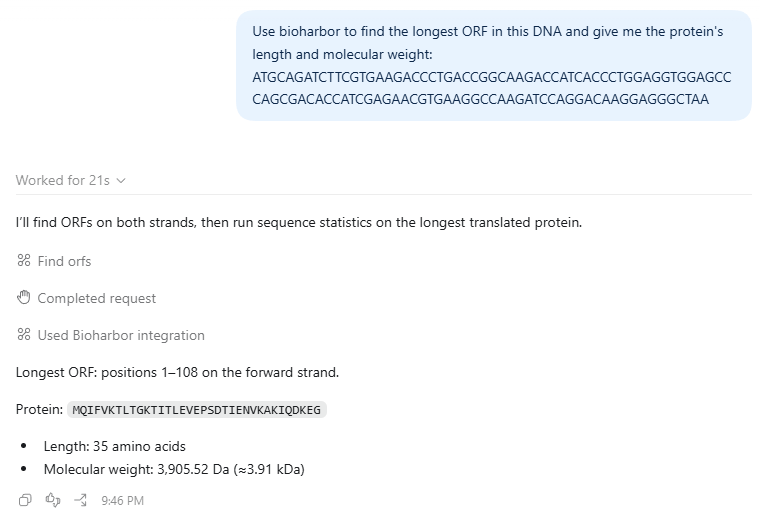
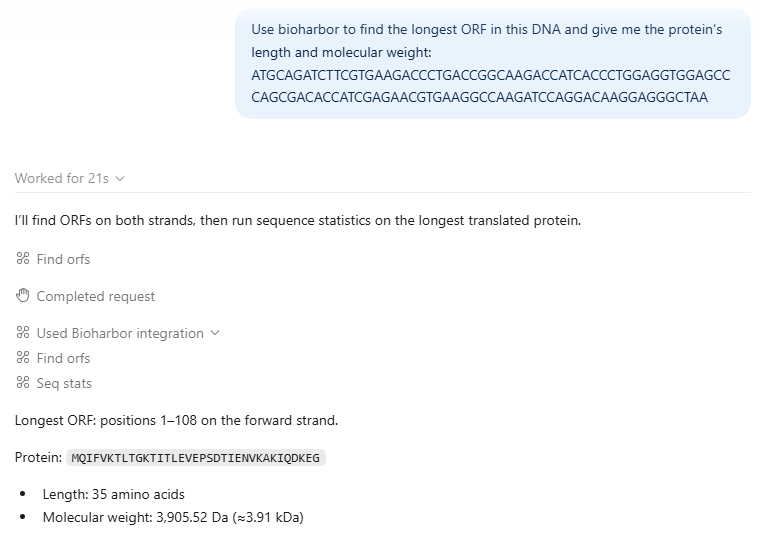
Show both BioHarbor tool calls in the Codex screenshot
The fully expanded view lists find_orfs and seq_stats, so the captions can name both tools.

diff --git a/docs/connect-clients.md b/docs/connect-clients.md
@@ -91,10 +91,10 @@ Then ask the agent, for example:
 Clear errors on a machine without MMseqs2 or a GPU are expected: they show the agent
 gets actionable messages instead of a hang.
 
-A multi-step request works too. Here Codex plans the steps, calls BioHarbor's tools and
-reports the ORF and the protein's length and molecular weight:
+A multi-step request works too. Here Codex plans the steps, chains BioHarbor's
+`find_orfs` and `seq_stats`, and reports the ORF and the protein's length and weight:
 
-![Codex planning the steps and calling BioHarbor's tools on a DNA sequence](images/codex-orf-demo.png)
+![Codex chaining BioHarbor's find_orfs and seq_stats tools on a DNA sequence](images/codex-orf-demo.png)
 
 ## Troubleshooting
 

diff --git a/README.md b/README.md
@@ -58,7 +58,7 @@ the popular ones (it writes an absolute path, so GUI apps find it even outside y
 Long-running tools return a `job_id` within ~20 s instead of blocking, so they stay
 within every client's tool-call timeout.
 
-<img src="docs/images/codex-orf-demo.png" alt="Codex planning the steps and calling BioHarbor's tools on a DNA sequence" width="640">
+<img src="docs/images/codex-orf-demo.png" alt="Codex chaining BioHarbor's find_orfs and seq_stats tools on a DNA sequence" width="640">
 
 Step-by-step setup (local or on a GPU server,
 with troubleshooting): [docs/connect-clients.md](docs/connect-clients.md).
